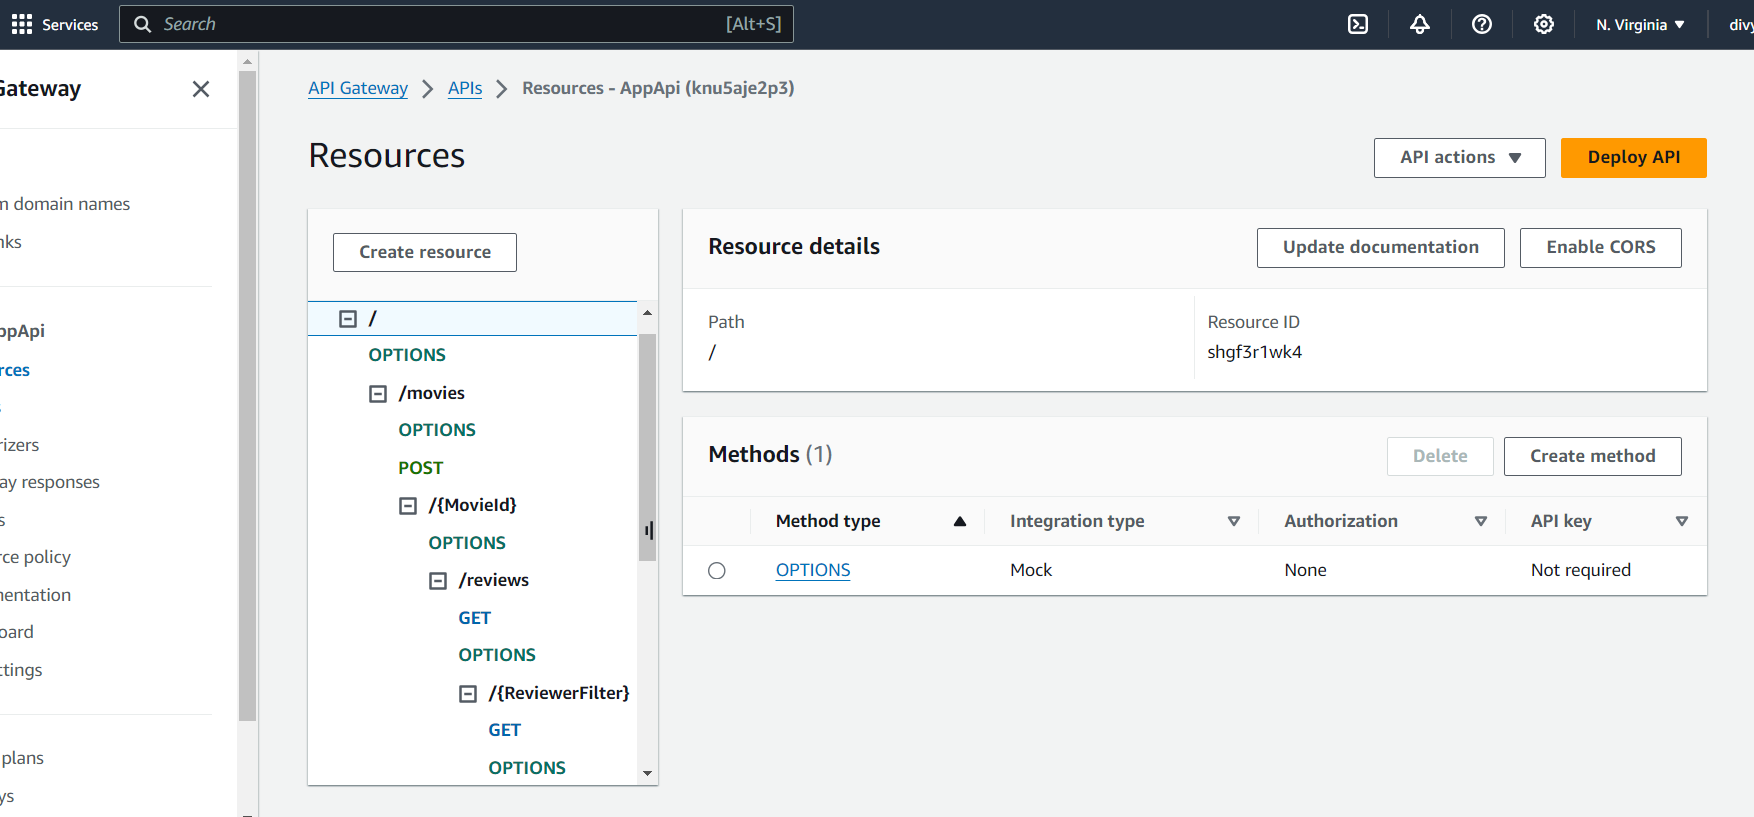
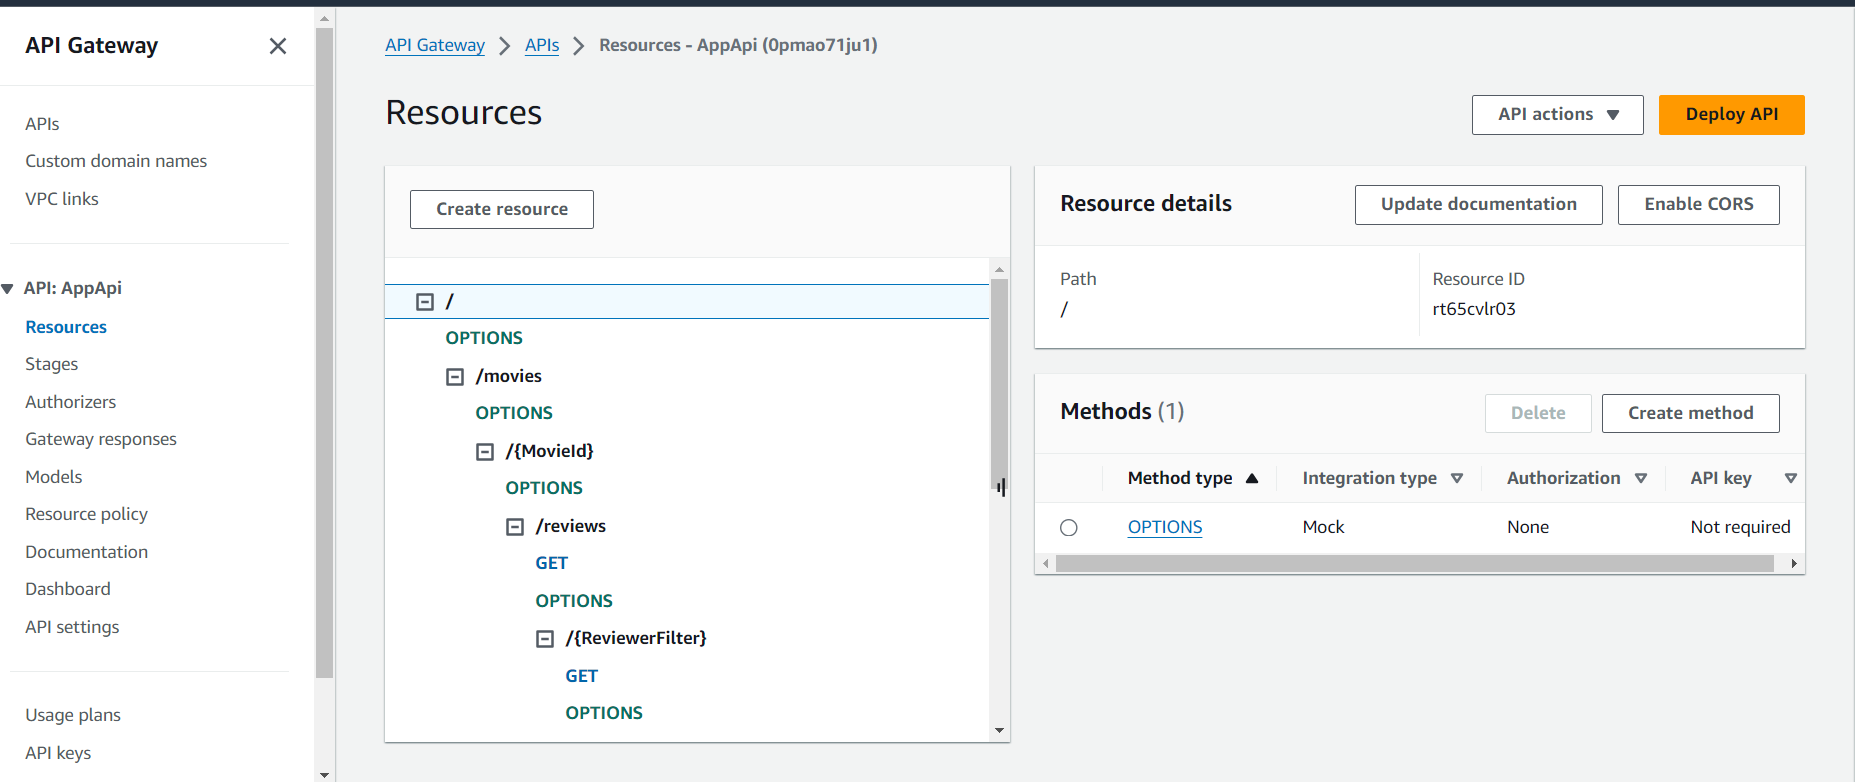
Update Readme file

diff --git a/lib/app-api.ts b/lib/app-api.ts
@@ -89,6 +89,8 @@ const appCommonFnProps = {
 
 //Define the Movie end point
 const moviesEndpoint = appApi.root.addResource("movies");
+
+const moviesEndpoints = moviesEndpoint.addResource("reviews")
 const movieEndpoint = moviesEndpoint.addResource("{MovieId}");
 const reviewsResource = movieEndpoint.addResource("reviews");
 const reviewerNameResource = reviewsResource.addResource("{ReviewerFilter}");
@@ -251,7 +253,7 @@ const requestAuthorizer = new apig.RequestAuthorizer(
 
 
 
- moviesEndpoint.addMethod(
+moviesEndpoints.addMethod(
       "POST",
       new apig.LambdaIntegration(newMovieFn, { proxy: true }),{
       authorizer: requestAuthorizer,
